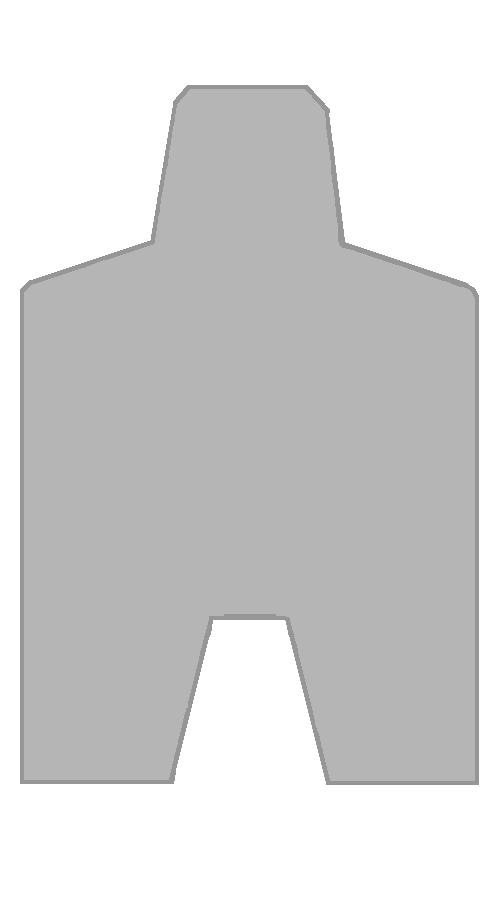
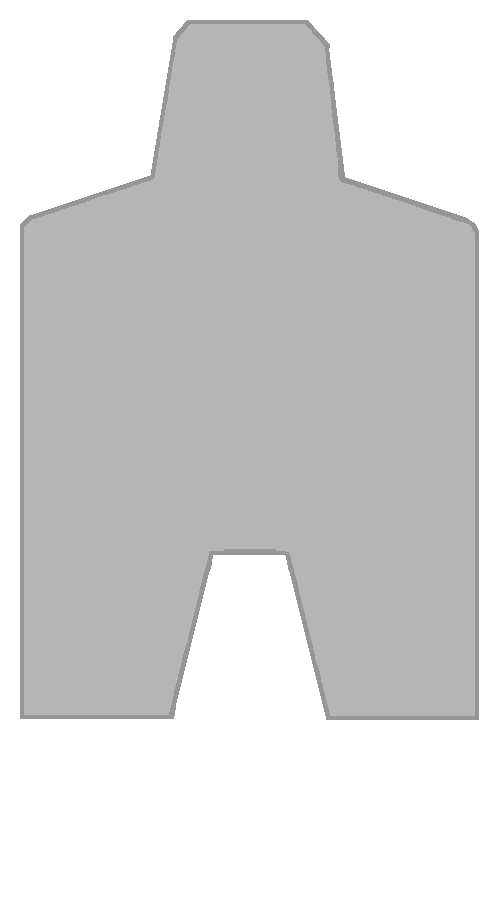
Engines Stuff
Added Coords for engines with the basic hull design. Is Hard coded into
the Component Loader. Also added new engine designs

Changed region(s): [[0.03, 0.0, 0.96, 0.3422], [0.03, 0.5911, 0.96, 0.8711]]

diff --git a/ShipWars/src/engine/ComponentLoader.java b/ShipWars/src/engine/ComponentLoader.java
@@ -35,6 +35,12 @@ public class ComponentLoader {
 		switch(id) {
 		case 0:
 			return new Engines(Resources.getImage("ExampleEngine"), "Example Engine", ENGINE_X, ENGINE_Y, .5);
+		case 1:
+			return new Engines(Resources.getImage("fastEngine"), "Fast Engine", ENGINE_X, ENGINE_Y, .5);
+		case 2:
+			return new Engines(Resources.getImage("ionEngine"), "Ion Engine", ENGINE_X, ENGINE_Y, .5);
+		case 3:
+			return new Engines(Resources.getImage("bioEngine"), "Bio Engine", ENGINE_X, ENGINE_Y, .5);
 		default:
 			return new Engines(Resources.getImage("ExampleEngine"), "Example Engine", ENGINE_X, ENGINE_Y, .5);			
 		}
@@ -56,13 +62,13 @@ public class ComponentLoader {
 	public static Hull getHull(int id) {
 		switch(id) {
 		case 0:// in x, y format, engines -> shield -> turret
-			return new Hull(Resources.getImage("greyHull"), "Grey Hull", new Polygon(new float[] {0, 0, 0, 5, 5, 5, 5, 0}), new int[] {250, 720, 250, 450, 250, 170}, HULL_X, HULL_Y, 100);
+			return new Hull(Resources.getImage("greyHull"), "Grey Hull", new Polygon(new float[] {0, 0, 0, 5, 5, 5, 5, 0}), new int[] {250, 800, 250, 450, 250, 105}, HULL_X, HULL_Y, 100);
 
 		case 1:// in x, y format, engines -> shield -> turret
-			return new Hull(Resources.getImage("redHull"), "Red Hull", new Polygon(new float[] {0, 0, 0, 5, 5, 5, 5, 0}), new int[] {250, 720, 250, 450, 250, 200}, HULL_X, HULL_Y, 100);
+			return new Hull(Resources.getImage("redHull"), "Red Hull", new Polygon(new float[] {0, 0, 0, 5, 5, 5, 5, 0}), new int[] {250, 800, 250, 450, 250, 135}, HULL_X, HULL_Y, 100);
 
 		case 2:// in x, y format, engines -> shield -> turret
-			return new Hull(Resources.getImage("blueHull"), "Blue Hull", new Polygon(new float[] {0, 0, 0, 5, 5, 5, 5, 0}), new int[] {250, 720, 250, 450, 250, 250}, HULL_X, HULL_Y, 100);
+			return new Hull(Resources.getImage("blueHull"), "Blue Hull", new Polygon(new float[] {0, 0, 0, 5, 5, 5, 5, 0}), new int[] {250, 800, 250, 450, 250, 185}, HULL_X, HULL_Y, 100);
 		default:
 			return new Hull(Resources.getImage("greyHull"), "Grey Hull", new Polygon(new float[] {0, 0, 0, 5, 5, 5, 5, 0}), new int[] {}, HULL_X, HULL_Y, 100);			
 		}

diff --git a/ShipWars/src/engine/NewSelection.java b/ShipWars/src/engine/NewSelection.java
@@ -32,9 +32,7 @@ public class NewSelection extends BasicGameState {
 	private Hull[] hulls = { ComponentLoader.getHull(0), ComponentLoader.getHull(1), ComponentLoader.getHull(2) };
 	private Shield[] shields = { ComponentLoader.getShield(0), ComponentLoader.getShield(1),
 			ComponentLoader.getShield(2) };
-	private Engines[] engines = { ComponentLoader.getEngine(0),
-			new Engines(Resources.getImage("ExampleEngine"), "Yeet Engine", 3, 3, .5),
-			new Engines(Resources.getImage("ExampleEngine"), "Fast Engine", 3, 3, .5) };
+	private Engines[] engines = { ComponentLoader.getEngine(1), ComponentLoader.getEngine(2), ComponentLoader.getEngine(3) };
 	private Turret[] turrets = { ComponentLoader.getTurret(0), ComponentLoader.getTurret(1),
 			ComponentLoader.getTurret(2) };
 	private int hullI = 0, shieldI = 0, engineI = 0, turretI = 0, mx, my;
@@ -142,6 +140,7 @@ public class NewSelection extends BasicGameState {
 		hulls[hullI].getSprite().draw(hullCoords[0], hullCoords[1], scale);
 		shields[shieldI].getSprite().draw(shieldCoords[0], shieldCoords[1], scale);
 		turrets[turretI].getSprite().draw(turretCoords[0], turretCoords[1], scale);
+		engines[engineI].getSprite().draw(engineCoords[0], engineCoords[1], scale);
 
 		for (int i = 0; i < BOXES; i++) {
 			upArrows[i].isHovering(mx, my);

diff --git a/ShipWars/src/engine/Resources.java b/ShipWars/src/engine/Resources.java
@@ -24,6 +24,9 @@ public class Resources {
 			images.put("lightShield", loadImage("resources/shields/light_shield.png"));
 			images.put("energyShield", loadImage("resources/shields/energy_shield.png"));
 			images.put("ExampleEngine", loadImage("resources/engines/ExampleEngine.png"));
+			images.put("fastEngine", loadImage("resources/engines/fastEngine.png"));
+			images.put("ionEngine", loadImage("resources/engines/IonEngine.png"));
+			images.put("bioEngine", loadImage("resources/engines/BioEngine.png"));
 			images.put("character1", loadImage("resources/characters/character1.png"));
 			images.put("title", loadImage("resources/ship_wars_title.png"));
 			images.put("upArrow", loadImage("resources/up_arrow.png"));

diff --git a/ShipWars/src/engine/Engine.java b/ShipWars/src/engine/Engine.java
@@ -15,7 +15,7 @@ public class Engine extends StateBasedGame{
     private static Dimension screenSize = Toolkit.getDefaultToolkit().getScreenSize();
     private static int width = screenSize.width < 1336? screenSize.width: 1336;
     private static int height = screenSize.height < 768? screenSize.height: 768;
-    private static boolean isFullscreen = false;
+    private static boolean isFullscreen = true;
     
     public Engine(){
         super("Ship Wars");
